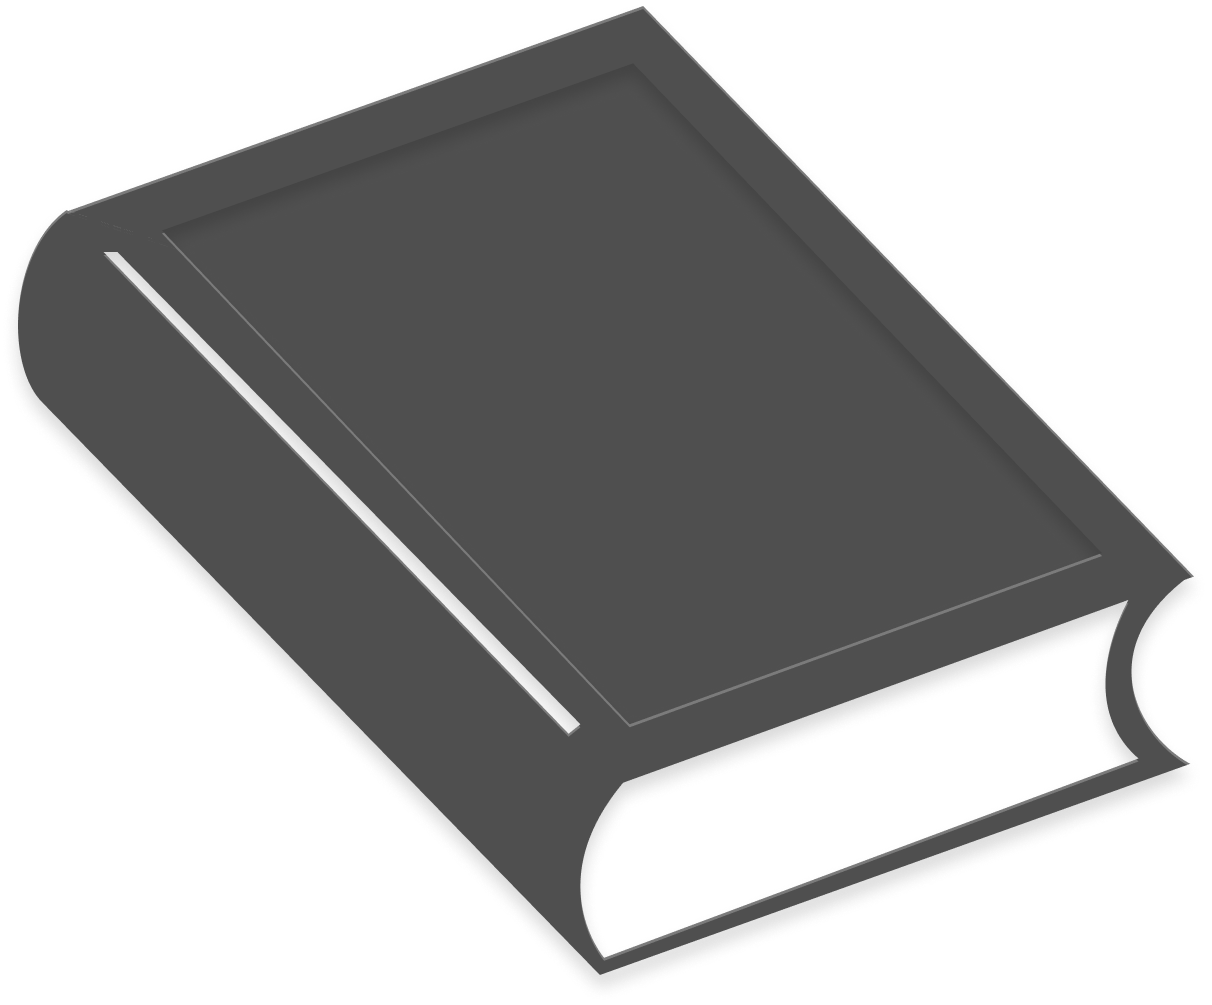
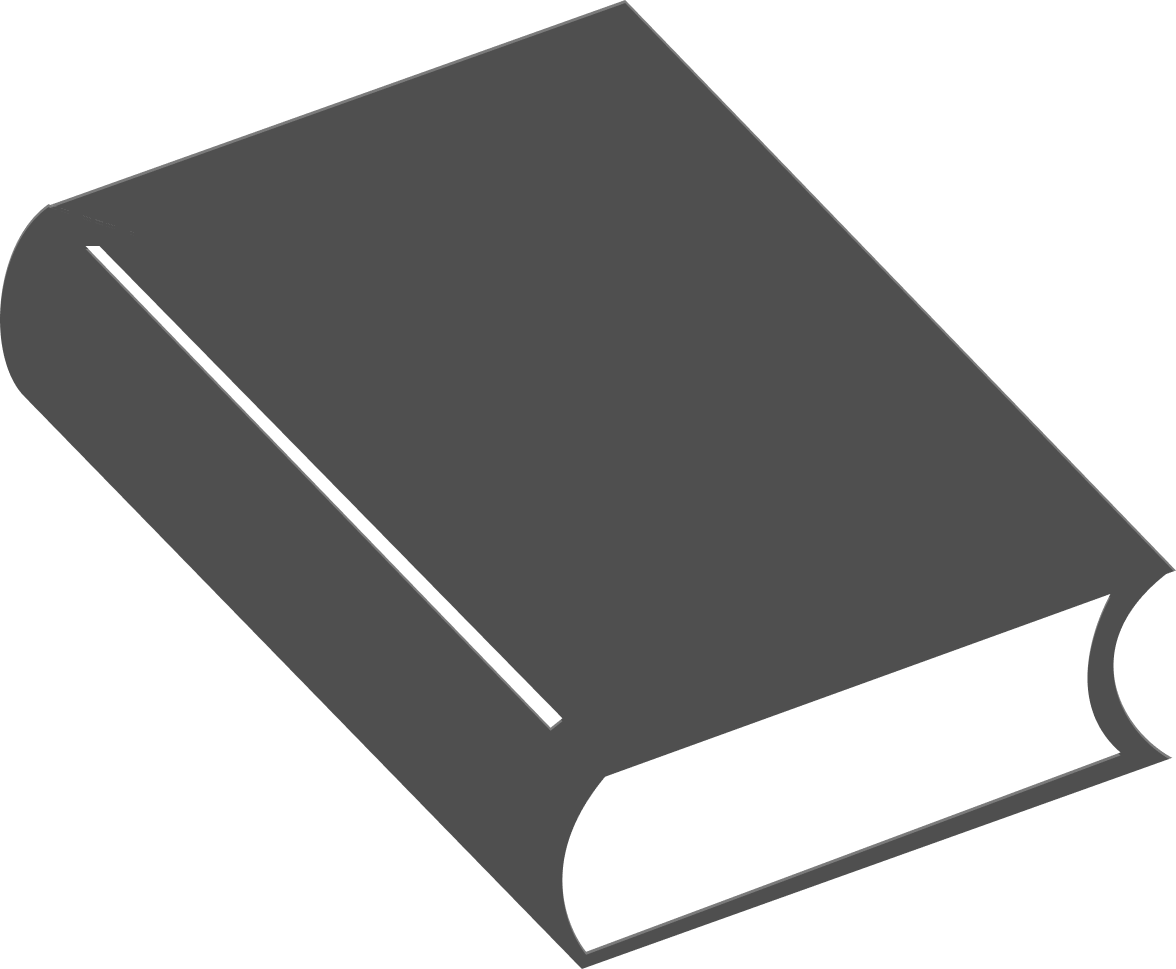
feedback updates

diff --git a/docs/src/.vuepress/components/Onboarding.vue b/docs/src/.vuepress/components/Onboarding.vue
@@ -23,18 +23,34 @@
 
         <div class="onboard-illustration">
           <div style="position: relative;">
-            <img class="not-zoomable" style="max-width: 390px;width: 100%;" src="/cookbook.png" />
+            <!-- <img class="not-zoomable" style="max-width: 390px;width: 100%;" src="/cookbook.png" /> -->
 
             <div class="logo-clip"></div>
 
-            <svg width="0" height="0" viewBox="0 0 105 85" xmlns="http://www.w3.org/2000/svg">
+            <svg style="max-width: 390px;" width="392" height="323" viewBox="0 0 392 323" fill="none" xmlns="http://www.w3.org/2000/svg">
+              <defs>
+                <clipPath id="clipPath">
+                  <path fill-rule="evenodd" clip-rule="evenodd" d="M388.725 191.341L392 190.17L208.403 0L16.8683 68.2863L44.9482 77.5464L44.9616 77.5603L16.1405 68.0574C-2.53857 81.265 -4.6275 118.868 7.91956 131.955L193.969 323L390.76 252.613C372.909 242.866 358.414 215.199 388.725 191.341ZM183.519 242.577L187.473 239.419L33.1215 81.992H28.4854L183.519 242.577ZM201.719 258.901C173.916 292.209 195.371 317.251 195.371 317.251V317.265L373.496 250.823C350.814 231.193 370.194 197.952 370.194 197.952L201.719 258.901ZM184.104 106.345C170.359 114.442 167.894 130.454 178.501 142.095C189.109 153.736 208.841 156.674 222.586 148.577C236.331 140.481 238.796 124.468 228.188 112.827C217.581 101.186 197.849 98.2489 184.104 106.345ZM173.871 144.823C161.221 130.939 164.22 111.935 180.474 102.361C196.727 92.7874 220.168 96.2166 232.819 110.1C245.469 123.983 242.47 142.987 226.216 152.561C209.963 162.135 186.522 158.706 173.871 144.823ZM214.73 132.1C215.087 132.336 215.433 132.528 215.767 132.674L221.317 129.406L221.057 129.12C220.363 128.824 219.654 128.4 218.929 127.847C218.203 127.295 217.398 126.532 216.511 125.559L209.417 117.774C208.459 116.722 207.389 115.935 206.206 115.411C205.013 114.876 203.77 114.585 202.478 114.539C201.185 114.492 199.86 114.663 198.5 115.051C197.153 115.432 195.837 116.001 194.552 116.758C193.122 117.601 191.992 118.507 191.162 119.477C190.336 120.428 189.775 121.394 189.48 122.376C189.198 123.35 189.17 124.303 189.395 125.236C189.633 126.161 190.104 127.01 190.807 127.782L196.278 124.559C195.656 123.877 195.418 123.184 195.562 122.48C195.697 121.765 196.321 121.079 197.436 120.422C198.696 119.68 199.894 119.369 201.032 119.49C202.16 119.599 203.121 120.09 203.916 120.962L204.895 122.036L201.845 123.833C198.526 125.788 196.506 127.785 195.785 129.826C195.067 131.848 195.579 133.815 197.322 135.727C198.035 136.51 198.881 137.129 199.86 137.584C200.829 138.028 201.86 138.297 202.955 138.391C204.049 138.486 205.171 138.401 206.321 138.136C207.483 137.864 208.609 137.407 209.698 136.765C210.367 136.371 210.939 135.948 211.414 135.496C211.9 135.056 212.297 134.607 212.606 134.15C212.919 133.674 213.159 133.197 213.329 132.719C213.498 132.241 213.606 131.773 213.653 131.316C214.014 131.602 214.373 131.863 214.73 132.1ZM208.954 131.402C208.584 131.792 208.123 132.15 207.572 132.474C206.523 133.092 205.547 133.349 204.645 133.244C203.756 133.132 203.027 132.762 202.456 132.136C202.079 131.722 201.824 131.288 201.692 130.833C201.549 130.367 201.556 129.899 201.712 129.428C201.858 128.947 202.172 128.462 202.653 127.972C203.124 127.471 203.786 126.969 204.638 126.467L207.433 124.821L210.276 127.942C210.333 128.27 210.33 128.632 210.269 129.029C210.197 129.415 210.053 129.81 209.835 130.213C209.618 130.616 209.324 131.012 208.954 131.402Z" fill="#fff"/>
+                </clipPath>
+              </defs>
+            </svg>
+
+            <!-- <svg style="position: absolute;left: 0;" width="100%" height="100%" viewBox="0 0 392 323" fill="none" xmlns="http://www.w3.org/2000/svg">
+              <defs>
+                <clipPath id="clipPath">
+                  <path fill-rule="evenodd" clip-rule="evenodd" d="M205 18.5L47.5 74.5L204 240L361.5 182.5L205 18.5ZM184.104 106.345C170.359 114.442 167.894 130.454 178.501 142.095C189.109 153.736 208.841 156.674 222.586 148.577C236.331 140.481 238.796 124.468 228.188 112.827C217.581 101.186 197.849 98.2489 184.104 106.345ZM173.871 144.823C161.221 130.939 164.22 111.935 180.474 102.361C196.727 92.7874 220.168 96.2166 232.819 110.1C245.469 123.983 242.47 142.987 226.216 152.561C209.963 162.135 186.522 158.706 173.871 144.823ZM214.73 132.1C215.087 132.336 215.433 132.528 215.767 132.674L221.317 129.406L221.057 129.12C220.363 128.824 219.654 128.4 218.929 127.847C218.203 127.295 217.398 126.532 216.511 125.559L209.417 117.774C208.459 116.722 207.389 115.935 206.206 115.411C205.013 114.876 203.77 114.585 202.478 114.539C201.185 114.492 199.86 114.663 198.5 115.051C197.153 115.432 195.837 116.001 194.552 116.758C193.122 117.601 191.992 118.507 191.162 119.477C190.336 120.428 189.775 121.394 189.48 122.376C189.198 123.35 189.17 124.303 189.395 125.236C189.633 126.161 190.104 127.01 190.807 127.782L196.278 124.559C195.656 123.877 195.418 123.184 195.562 122.48C195.697 121.765 196.321 121.079 197.436 120.422C198.696 119.68 199.894 119.369 201.032 119.49C202.16 119.599 203.121 120.09 203.916 120.962L204.895 122.036L201.845 123.833C198.526 125.788 196.506 127.785 195.785 129.826C195.067 131.848 195.579 133.815 197.322 135.727C198.035 136.51 198.881 137.129 199.86 137.584C200.829 138.028 201.86 138.297 202.955 138.391C204.049 138.486 205.171 138.401 206.321 138.136C207.483 137.864 208.609 137.407 209.698 136.765C210.367 136.371 210.939 135.948 211.414 135.496C211.9 135.056 212.297 134.607 212.606 134.15C212.919 133.674 213.159 133.197 213.329 132.719C213.498 132.241 213.606 131.773 213.653 131.316C214.014 131.602 214.373 131.863 214.73 132.1ZM208.954 131.402C208.584 131.792 208.123 132.15 207.572 132.474C206.523 133.092 205.547 133.349 204.645 133.244C203.756 133.132 203.027 132.762 202.456 132.136C202.079 131.722 201.824 131.288 201.692 130.833C201.549 130.367 201.556 129.899 201.712 129.428C201.858 128.947 202.172 128.462 202.653 127.972C203.124 127.471 203.786 126.969 204.638 126.467L207.433 124.821L210.276 127.942C210.333 128.27 210.33 128.632 210.269 129.029C210.197 129.415 210.053 129.81 209.835 130.213C209.618 130.616 209.324 131.012 208.954 131.402Z" fill="#E8E8E8"/>
+                </clipPath>
+              </defs>
+            </svg> -->
+
+            <!-- <svg width="0" height="0" viewBox="0 0 105 85" xmlns="http://www.w3.org/2000/svg">
               <defs>
                 <clipPath id="clipPath">
                   <path fill-rule="evenodd" clip-rule="evenodd" d="M33.1041 21.3455C19.3588 29.4421 16.8942 45.4543 27.5015 57.0952C38.1088 68.7361 57.8406 71.6737 71.5858 63.5771C85.3311 55.4805 87.7958 39.4683 77.1885 27.8273C66.5812 16.1864 46.8494 13.2489 33.1041 21.3455ZM22.8712 59.8226C10.2206 45.9393 13.2204 26.9353 29.4737 17.3614C45.7271 7.78742 69.1681 11.2166 81.8187 25.0999C94.4693 38.9832 91.4695 57.9873 75.2162 67.5612C58.9629 77.1351 35.5218 73.706 22.8712 59.8226Z" fill="white"/>
                   <path d="M64.7677 47.6744C64.4327 47.528 64.0868 47.3363 63.7302 47.0996C63.3731 46.8629 63.0142 46.6017 62.6531 46.3159C62.6061 46.7733 62.4981 47.241 62.3287 47.7187C62.1593 48.1968 61.9188 48.6738 61.6065 49.1498C61.2974 49.6068 60.9001 50.0559 60.4145 50.4964C59.9393 50.9482 59.3673 51.3713 58.6983 51.7654C57.6095 52.4067 56.4835 52.8636 55.3207 53.136C54.1709 53.4008 53.049 53.486 51.9549 53.3913C50.8606 53.2967 49.8292 53.0276 48.8605 52.5841C47.8816 52.1293 47.0357 51.5104 46.3222 50.7274C44.5793 48.8146 44.0669 46.8477 44.785 44.8259C45.5062 42.7855 47.5261 40.7878 50.845 38.8328L53.895 37.0362L52.9166 35.9624C52.1215 35.0899 51.1602 34.5991 50.0325 34.4899C48.8947 34.3694 47.696 34.68 46.4367 35.4218C45.3216 36.0787 44.6969 36.7648 44.5623 37.4799C44.4178 38.184 44.6562 38.8772 45.2779 39.5594L39.8076 42.7816C39.1044 42.0099 38.6336 41.1614 38.3952 40.2361C38.17 39.303 38.1983 38.3495 38.4801 37.3756C38.7749 36.394 39.336 35.4277 40.1626 34.4766C40.9923 33.5066 42.122 32.6005 43.5519 31.7582C44.8374 31.001 46.1535 30.4321 47.5001 30.0514C48.8598 29.663 50.1857 29.4923 51.4779 29.5388C52.7703 29.5854 54.0131 29.8761 55.206 30.4111C56.3889 30.9347 57.4593 31.7223 58.4173 32.7737L65.5111 40.5587C66.3978 41.5318 67.2037 42.2948 67.9291 42.8473C68.6543 43.3999 69.3635 43.8243 70.0569 44.1205L70.3168 44.4057L64.7677 47.6744ZM56.5722 47.4743C57.1232 47.1497 57.5839 46.7925 57.9541 46.4025C58.3244 46.0123 58.6183 45.6159 58.8355 45.2127C59.0529 44.8097 59.1973 44.4152 59.2691 44.0292C59.3306 43.6321 59.3329 43.2696 59.2764 42.942L56.4328 39.8214L53.6386 41.4673C52.786 41.9695 52.1242 42.4711 51.6531 42.9719C51.172 43.4617 50.8585 43.9471 50.7125 44.4285C50.5562 44.8986 50.5494 45.3667 50.692 45.8329C50.8242 46.2878 51.079 46.7221 51.4561 47.136C52.0269 47.7624 52.7565 48.1319 53.6452 48.2444C54.5471 48.349 55.5227 48.0925 56.5722 47.4743Z" fill="white"/>
                 </clipPath>
               </defs>
-            </svg>
+            </svg> -->
           </div>
         </div>
 
@@ -133,7 +149,7 @@ import FeaturedContributors from './FeaturedContributors.vue';
 
   @include media-breakpoint-down(lg) {
     .onboard-illustration {
-      transform: scale(0.8);
+      transform: scale(0.68);
     }
   }
 
@@ -180,15 +196,14 @@ import FeaturedContributors from './FeaturedContributors.vue';
   }
 
   .logo-clip {
-    width: 105px;
-    height: 85px;
-    
     position: absolute;
-    left: 38%;
-    top: 25%;
+    top: 0;
+    bottom: 0;
+    left: 0;
+    right: 0;
     clip-path: url(#clipPath);
 
-    animation: gradientAnimation 12s infinite linear;
+    animation: gradientAnimation 18s infinite linear;
     background: linear-gradient( 90deg, hsla(263, 93%, 69%, 1), hsla(282, 57%, 64%, 1), hsla(325, 55%, 66%, 1), hsla(0, 92%, 75%, 1), hsla(16, 65%, 78%, 1), hsla(32, 50%, 80%, 1), hsla(16, 65%, 78%, 1), hsla(0, 92%, 75%, 1), hsla(325, 55%, 66%, 1), hsla(282, 57%, 64%, 1), hsla(263, 93%, 69%, 1) ) 0 0 / 400% 100%;
   
     @keyframes gradientAnimation {

diff --git a/docs/src/.vuepress/config.js b/docs/src/.vuepress/config.js
@@ -22,7 +22,6 @@ export default {
    * ref：https://v1.vuepress.vuejs.org/config/#head
    */
   head: [
-    ['meta', { name: 'theme-color', content: '#663399' }],
     ['meta', { name: 'apple-mobile-web-app-capable', content: 'yes' }],
     ['meta', { name: 'apple-mobile-web-app-status-bar-style', content: 'black' }],
     ['link', { rel: 'preconnect', href: 'https://fonts.googleapis.com' }],

diff --git a/docs/src/.vuepress/components/Sidebar.vue b/docs/src/.vuepress/components/Sidebar.vue
@@ -87,7 +87,7 @@ export default {
     }
 
     .sidebar-item:not(.sidebar-heading) {
-      padding: 0.35rem 0 !important;
+      padding: .35rem 0 .35rem 1rem !important
     }
 
     .sidebar-item.sidebar-heading {
